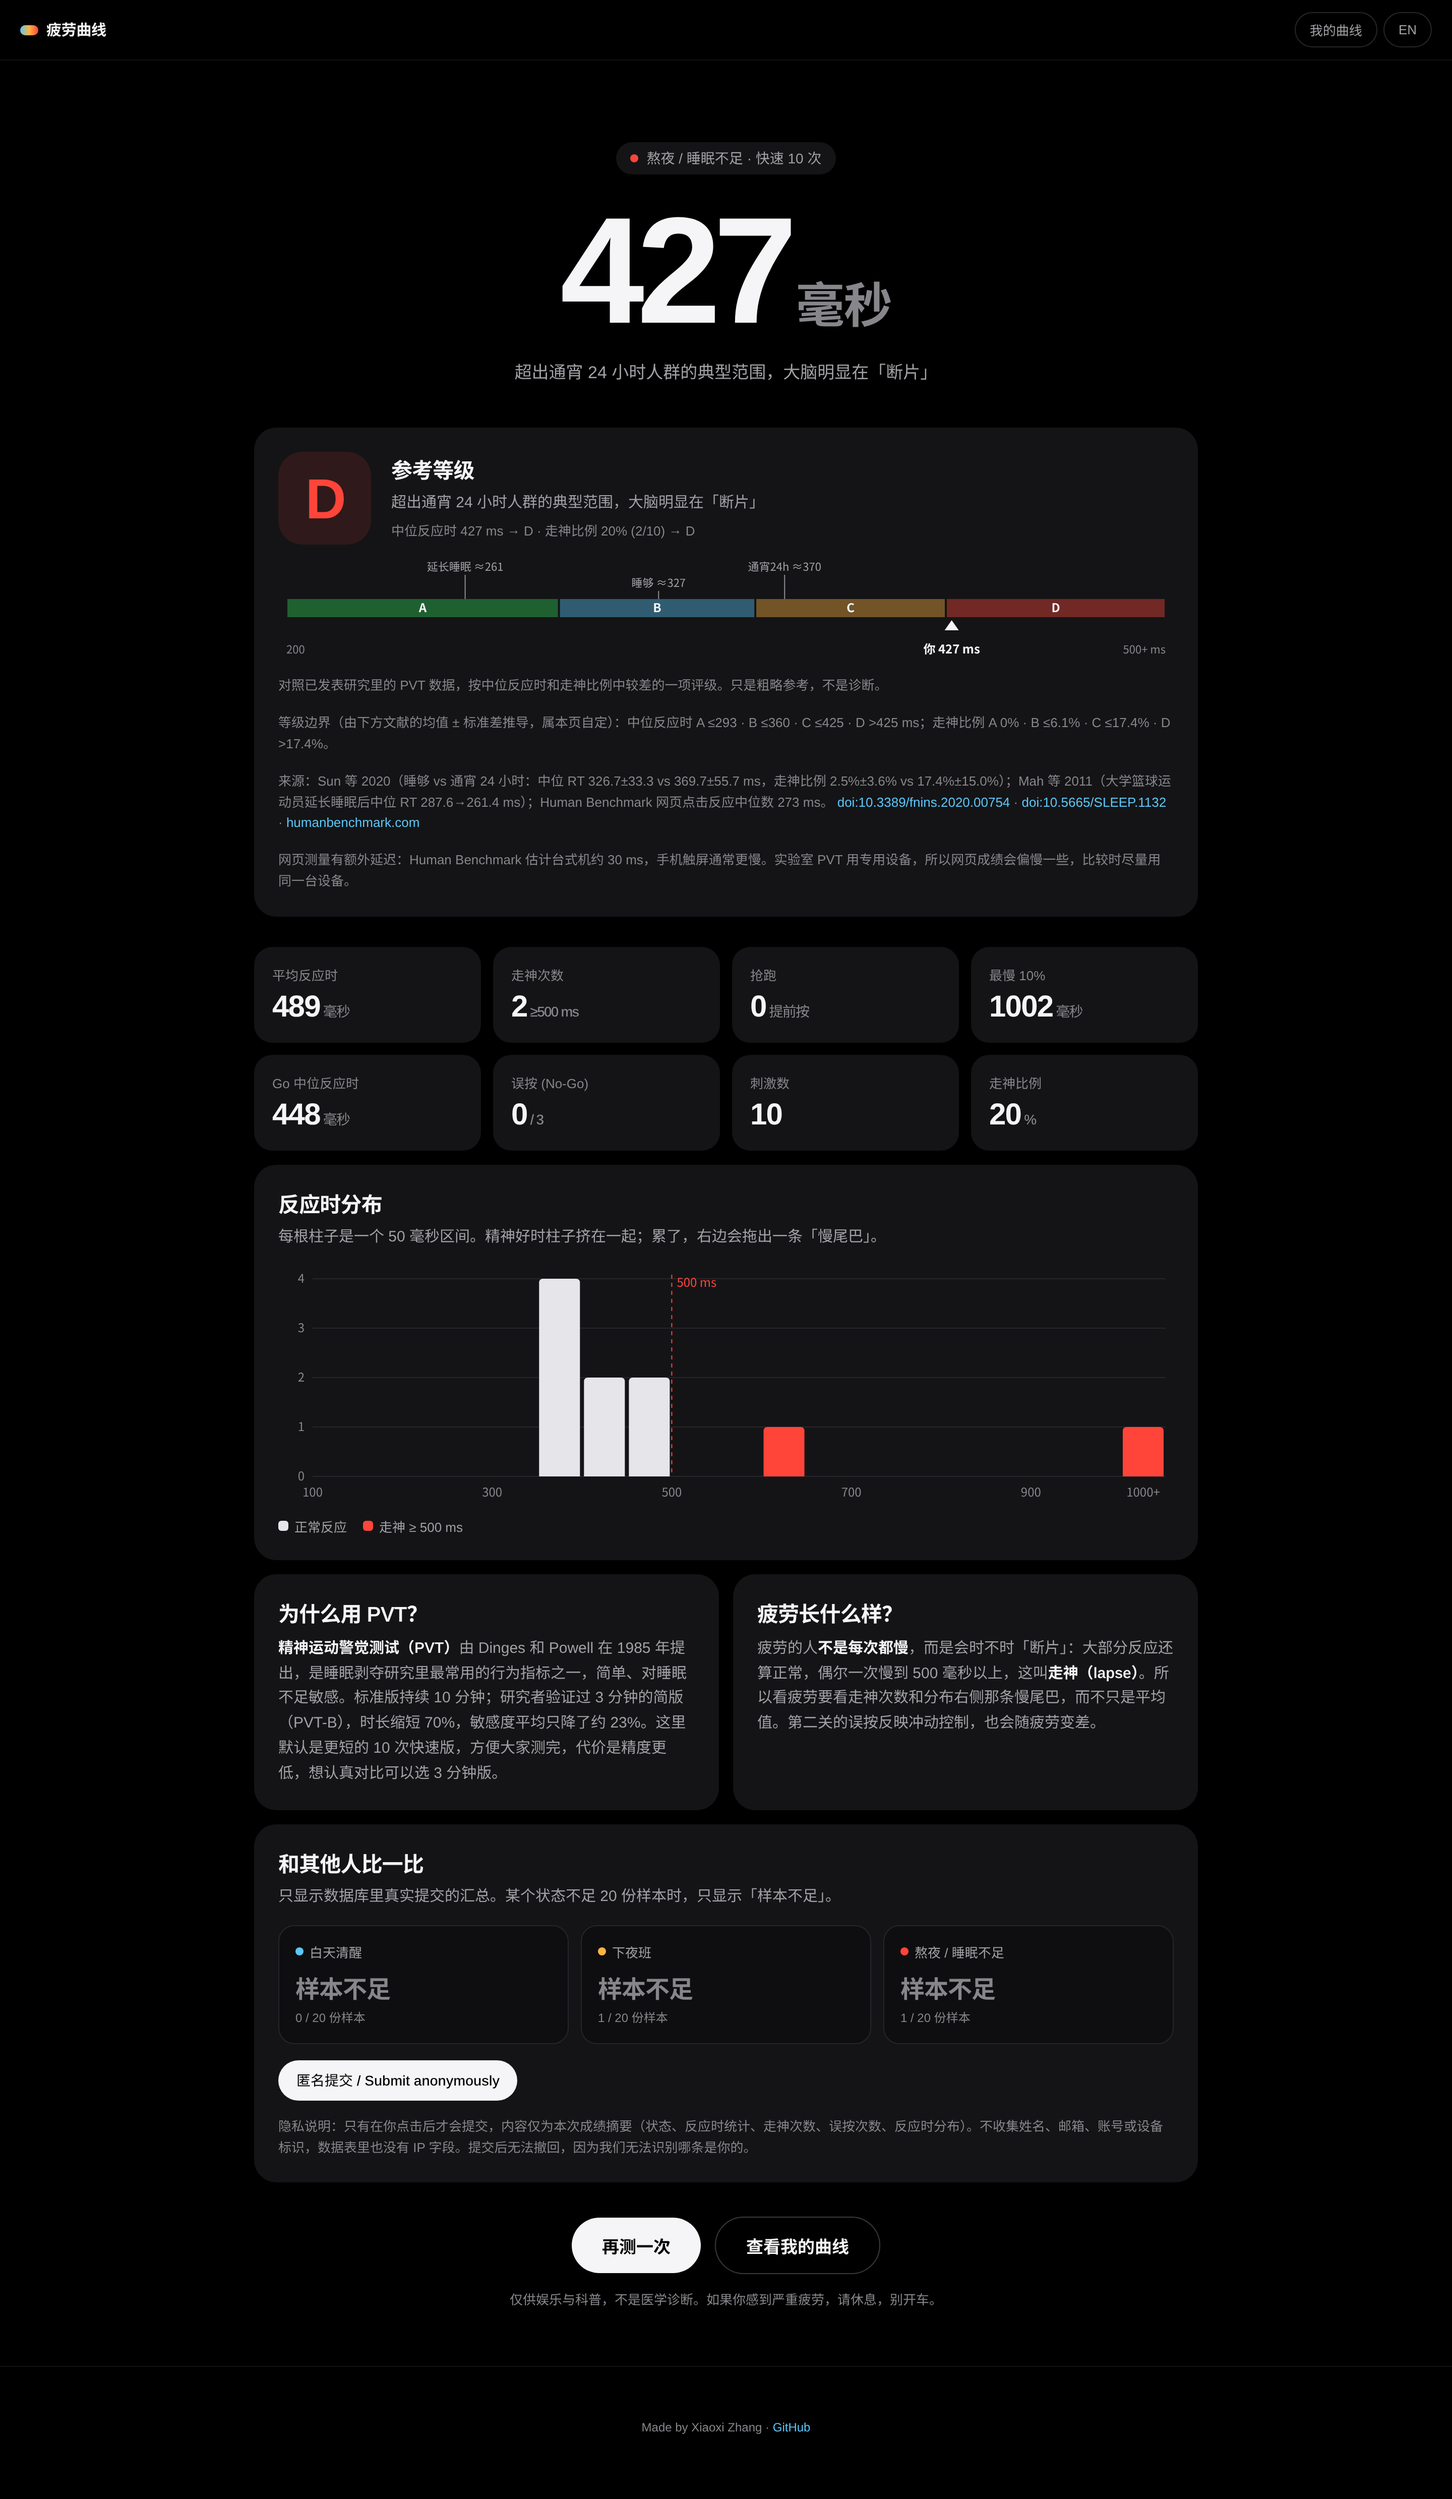
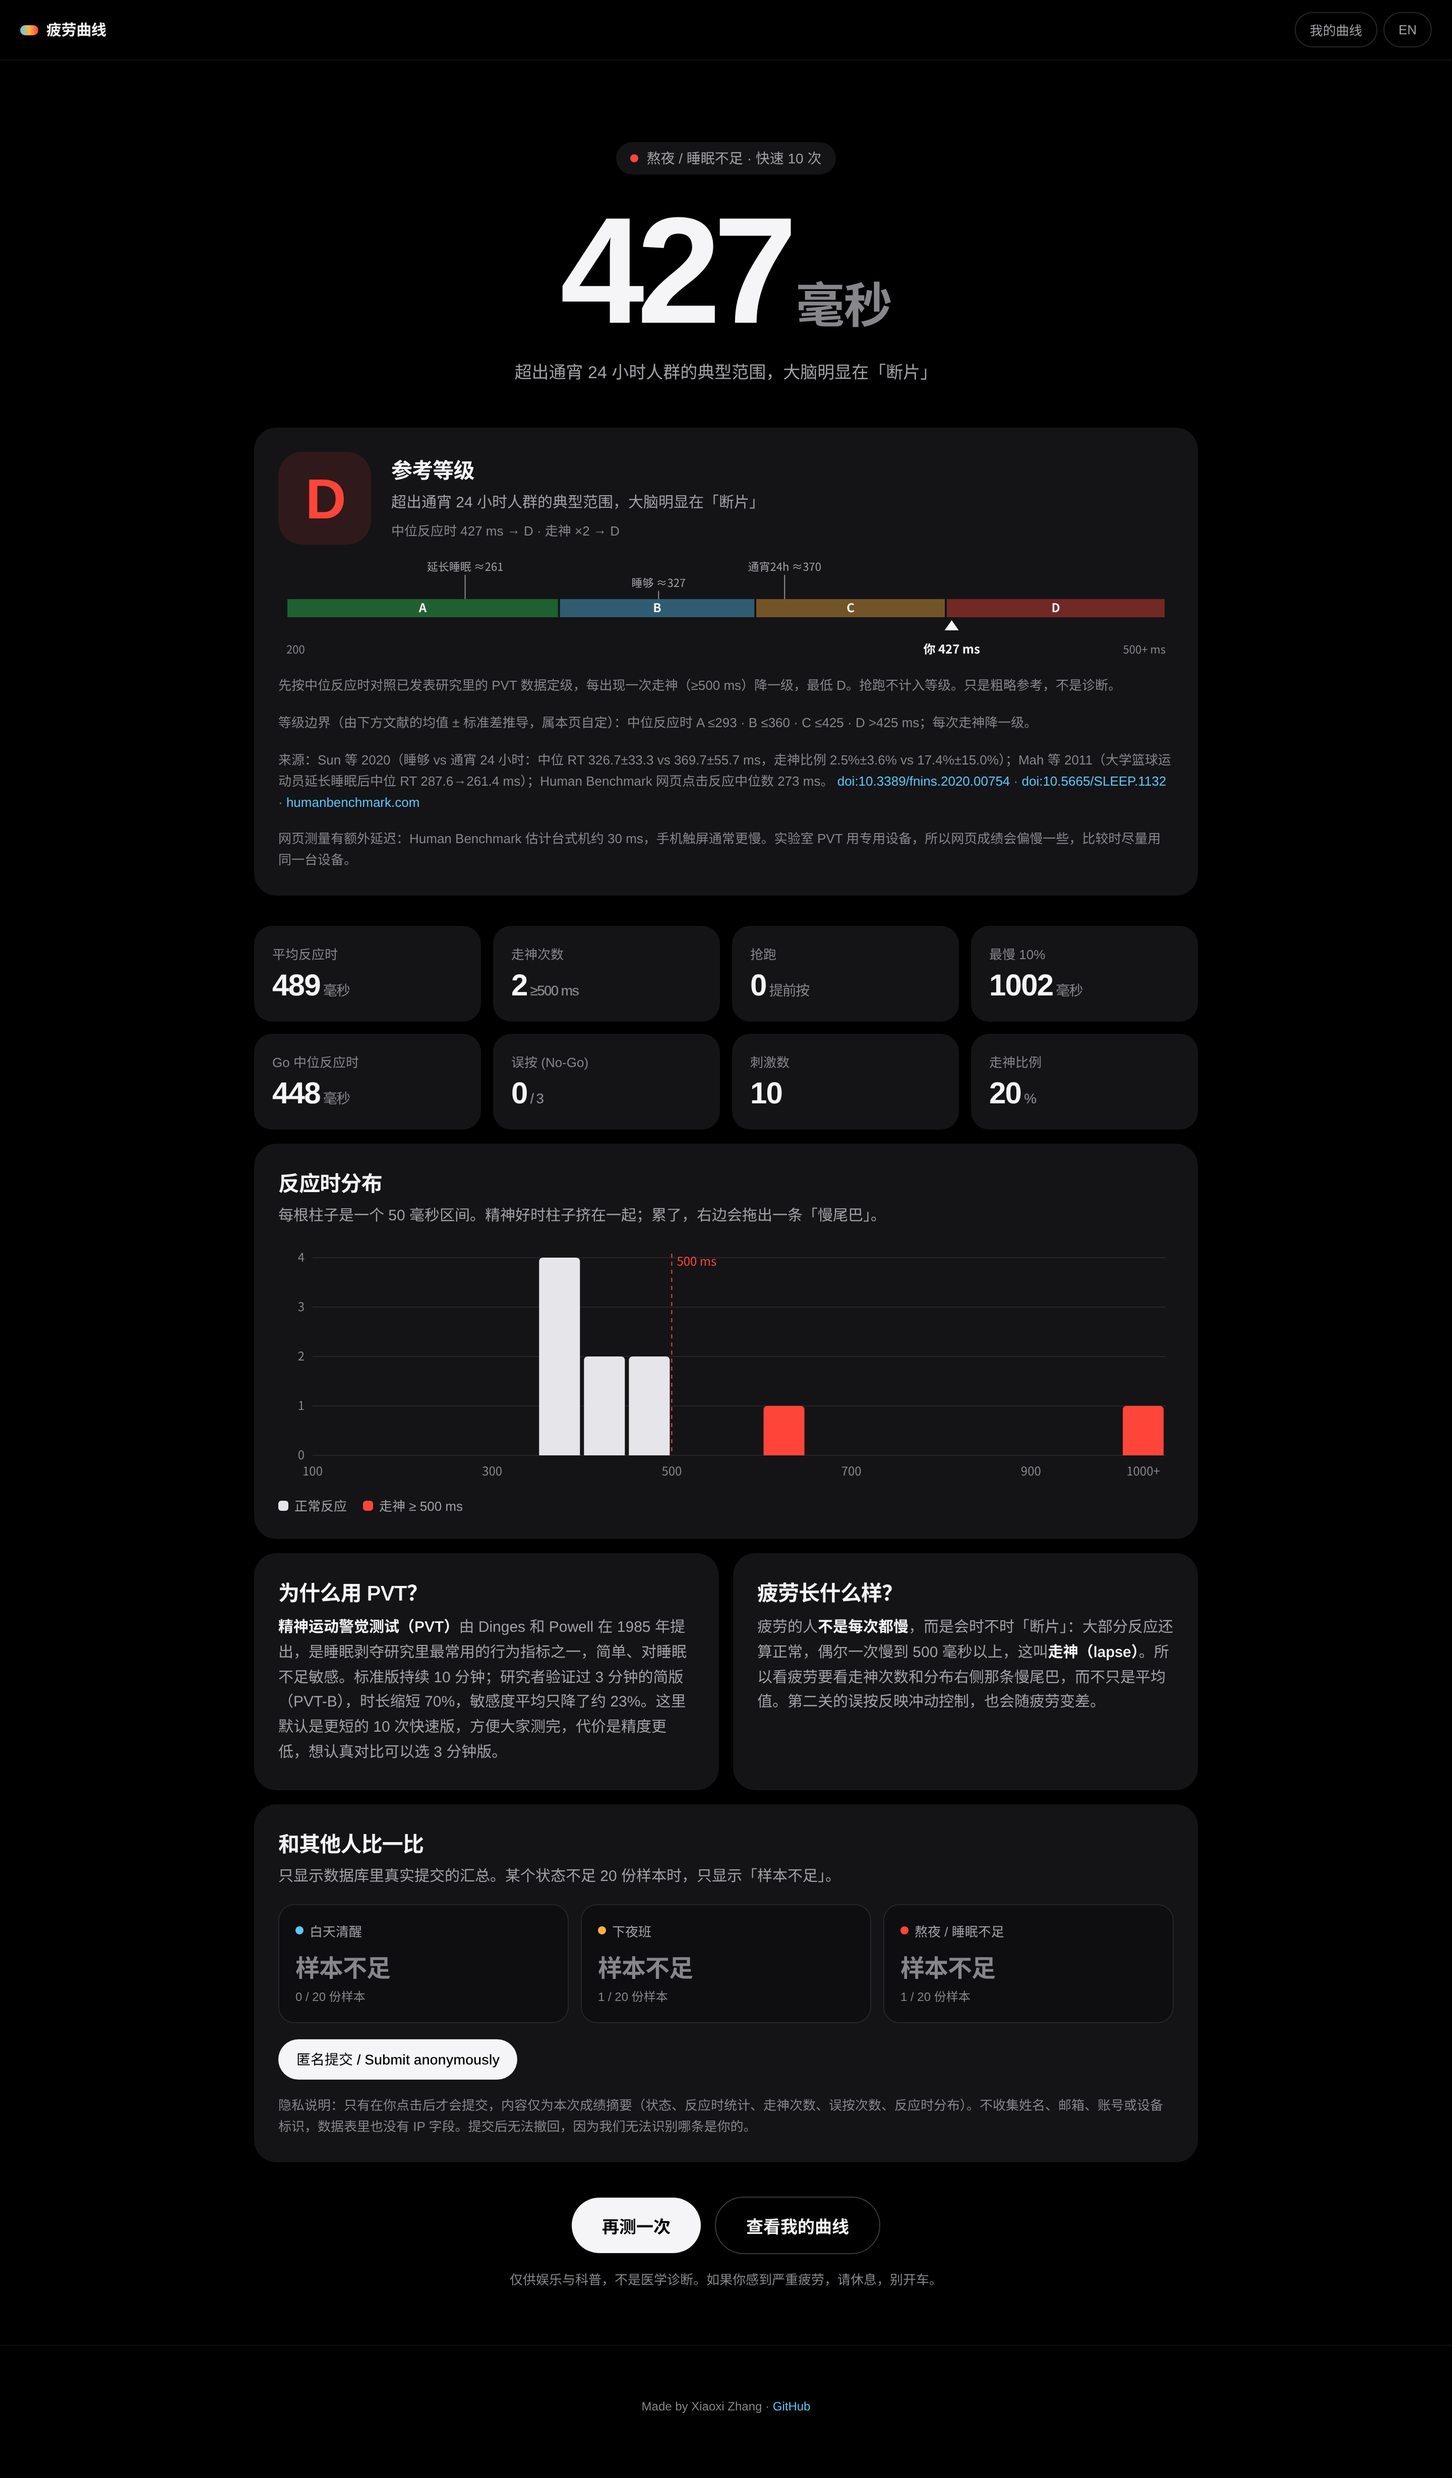
Lenient grading: RT grade minus one letter per lapse; false starts not graded

diff --git a/index.html b/index.html
@@ -346,11 +346,11 @@ line_good:'很稳。走神少，分布集中。',line_mid:'有一点点拖尾，
 hist_t:'反应时分布',hist_d:'每根柱子是一个 50 毫秒区间。精神好时柱子挤在一起；累了，右边会拖出一条「慢尾巴」。',lg_ok:'正常反应',lg_lapse:'走神 ≥ 500 ms',
 sci1_t:'为什么用 PVT？',sci1:'<b>精神运动警觉测试（PVT）</b>由 Dinges 和 Powell 在 1985 年提出，是睡眠剥夺研究里最常用的行为指标之一，简单、对睡眠不足敏感。标准版持续 10 分钟；研究者验证过 3 分钟的简版（PVT-B），时长缩短 70%，敏感度平均只降了约 23%。这里默认是更短的 10 次快速版，方便大家测完，代价是精度更低，想认真对比可以选 3 分钟版。',
 sci2_t:'疲劳长什么样？',sci2:'疲劳的人<b>不是每次都慢</b>，而是会时不时「断片」：大部分反应还算正常，偶尔一次慢到 500 毫秒以上，这叫<b>走神（lapse）</b>。所以看疲劳要看走神次数和分布右侧那条慢尾巴，而不只是平均值。第二关的误按反映冲动控制，也会随疲劳变差。',
-g_t:'参考等级',g_d:'对照已发表研究里的 PVT 数据，按中位反应时和走神比例中较差的一项评级。只是粗略参考，不是诊断。',
+g_t:'参考等级',g_d:'先按中位反应时对照已发表研究里的 PVT 数据定级，每出现一次走神（≥500 ms）降一级，最低 D。抢跑不计入等级。只是粗略参考，不是诊断。',
 gA:'比文献中睡够的成年人还快',gB:'落在睡够的健康成年人典型范围内',gC:'比睡够的人慢，接近通宵 24 小时后的平均水平',gD:'超出通宵 24 小时人群的典型范围，大脑明显在「断片」',
-g_rt:'中位反应时',g_lapse:'走神比例',g_by:'评级依据',g_na:'有效反应太少，暂不评级',
+g_rt:'中位反应时',g_lapse:'走神',g_nolapse:'没有走神，不降级',g_by:'评级依据',g_na:'有效反应太少，暂不评级',
 g_scale_rest:'睡够 ≈327',g_scale_sd:'通宵24h ≈370',g_scale_ext:'延长睡眠 ≈261',g_scale_hb:'网上点击 273',
-g_bands:'等级边界（由下方文献的均值 ± 标准差推导，属本页自定）：中位反应时 A ≤293 · B ≤360 · C ≤425 · D >425 ms；走神比例 A 0% · B ≤6.1% · C ≤17.4% · D >17.4%。',
+g_bands:'等级边界（由下方文献的均值 ± 标准差推导，属本页自定）：中位反应时 A ≤293 · B ≤360 · C ≤425 · D >425 ms；每次走神降一级。',
 g_src:'来源：Sun 等 2020（睡够 vs 通宵 24 小时：中位 RT 326.7±33.3 vs 369.7±55.7 ms，走神比例 2.5%±3.6% vs 17.4%±15.0%）；Mah 等 2011（大学篮球运动员延长睡眠后中位 RT 287.6→261.4 ms）；Human Benchmark 网页点击反应中位数 273 ms。',
 g_dev:'网页测量有额外延迟：Human Benchmark 估计台式机约 30 ms，手机触屏通常更慢。实验室 PVT 用专用设备，所以网页成绩会偏慢一些，比较时尽量用同一台设备。',
 g_touch:'你在用触屏，成绩通常会比电脑上慢一些。',lapse_pct:'走神比例',
@@ -388,11 +388,11 @@ line_good:'Steady. Few lapses, tight distribution.',line_mid:'A little tail. Com
 hist_t:'Reaction-time distribution',hist_d:'Each bar is a 50 ms bin. When alert, bars bunch together; when tired, a long “slow tail” grows to the right.',lg_ok:'Normal response',lg_lapse:'Lapse ≥ 500 ms',
 sci1_t:'Why the PVT?',sci1:'The <b>Psychomotor Vigilance Task</b> was introduced by Dinges and Powell in 1985 and is one of the most widely used behavioural measures in sleep-deprivation research: simple and sensitive to sleep loss. The standard version lasts 10 minutes; a validated 3-minute PVT-B cut duration by 70% while losing on average about 23% of effect size. This page defaults to an even shorter 10-trial quick version so people actually finish it, at the cost of precision. Pick the 3-minute mode for more careful comparisons.',
 sci2_t:'What does fatigue look like?',sci2:'Tired people are <b>not slow every time</b>. Most responses stay fairly normal, but every so often one takes 500 ms or more — a <b>lapse</b>. So fatigue shows up as lapses and a long slow tail on the right of the distribution, not just a higher average. Level 2 errors reflect impulse control, which also worsens with fatigue.',
-g_t:'Reference grade',g_d:'Based on published PVT data, graded by the worse of your median RT and lapse rate. A rough reference, not a diagnosis.',
+g_t:'Reference grade',g_d:'Your median RT is graded against published PVT data, then each lapse (≥500 ms) lowers the grade by one letter, down to D. False starts don’t count. A rough reference, not a diagnosis.',
 gA:'Faster than well-rested adults in the literature',gB:'Within the typical range of well-rested healthy adults',gC:'Slower than rested; near the average after 24 h awake',gD:'Beyond the typical range after 24 h awake — clear lapsing',
-g_rt:'Median RT',g_lapse:'Lapse rate',g_by:'Graded by',g_na:'Too few valid responses to grade',
+g_rt:'Median RT',g_lapse:'lapses',g_nolapse:'no lapses, no downgrade',g_by:'Graded by',g_na:'Too few valid responses to grade',
 g_scale_rest:'rested ≈327',g_scale_sd:'24h awake ≈370',g_scale_ext:'sleep-extended ≈261',g_scale_hb:'web clicks 273',
-g_bands:'Band edges (derived by this page from the mean ± SD in the sources below): median RT A ≤293 · B ≤360 · C ≤425 · D >425 ms; lapse rate A 0% · B ≤6.1% · C ≤17.4% · D >17.4%.',
+g_bands:'Band edges (derived by this page from the mean ± SD in the sources below): median RT A ≤293 · B ≤360 · C ≤425 · D >425 ms; minus one letter per lapse.',
 g_src:'Sources: Sun et al. 2020 (rested vs 24 h sleep deprivation: median RT 326.7±33.3 vs 369.7±55.7 ms; lapse ratio 2.5%±3.6% vs 17.4%±15.0%); Mah et al. 2011 (college basketball players, median RT 287.6→261.4 ms after sleep extension); Human Benchmark web click reaction median 273 ms.',
 g_dev:'Web timing adds latency: Human Benchmark estimates ~30 ms on desktop, and phone taps tend to be slower. Lab PVTs use dedicated hardware, so web scores run a bit slower. Compare on the same device.',
 g_touch:'You’re on a touchscreen — scores usually run a bit slower than on a computer.',lapse_pct:'Lapse rate',
@@ -660,15 +660,16 @@ function renderResult(r){
    Sun et al. 2020, Front Neurosci 14:754 (doi:10.3389/fnins.2020.00754), 7-min PVT:
      rested median RT 326.7 ± 33.3 ms, lapse ratio 2.5% ± 3.6%; after 24 h awake 369.7 ± 55.7 ms, 17.4% ± 15.0%.
    Band edges derived here: A ≤ rested mean−1SD (293), B ≤ rested mean+1SD (360), C ≤ 24h-SD mean+1SD (425), else D.
-   Lapse: A 0, B ≤ rested mean+1SD (6.1%), C ≤ 24h-SD mean (17.4%), else D. Final = worse of the two. */
+   Then each lapse (RT ≥ 500 ms) lowers the grade by one letter, floor D. False starts are shown but not graded. */
 const modeName = m => m === 1 ? t('mode_q') : t('mode_s');
 const GCOL = {A:'#30d158', B:'#5ac8fa', C:'#ffb340', D:'#ff453a'};
 function grade(r){
   if (r.median == null || !r.n || r.n < 5) return null;
   const rt = r.median <= 293 ? 'A' : r.median <= 360 ? 'B' : r.median <= 425 ? 'C' : 'D';
   const lp = r.lapses / r.n * 100;
-  const lg = lp === 0 ? 'A' : lp <= 6.1 ? 'B' : lp <= 17.4 ? 'C' : 'D';
-  return { g: rt > lg ? rt : lg, rt, lg, lp };
+  // each lapse lowers the RT grade by one letter (floor D); false starts do not affect the grade
+  const g = 'ABCD'[Math.min(3, 'ABCD'.indexOf(rt) + r.lapses)];
+  return { g, rt, lp };
 }
 function renderGrade(r, G){
   const L = $('#gLetter');
@@ -676,7 +677,7 @@ function renderGrade(r, G){
   else {
     L.textContent = G.g; L.style.color = GCOL[G.g]; L.style.background = GCOL[G.g] + '1f';
     $('#gDesc').textContent = t('g'+G.g);
-    $('#gBy').textContent = `${t('g_rt')} ${r.median} ms → ${G.rt} · ${t('g_lapse')} ${G.lp.toFixed(0)}% (${r.lapses}/${r.n}) → ${G.lg}`;
+    $('#gBy').textContent = `${t('g_rt')} ${r.median} ms → ${G.rt}` + (r.lapses ? ` · ${t('g_lapse')} ×${r.lapses} → ${G.g}` : ` · ${t('g_nolapse')}`);
   }
   const touch = window.matchMedia && matchMedia('(pointer:coarse)').matches;
   $('#gDev').textContent = t('g_dev') + (touch ? ' ' + t('g_touch') : '');

diff --git a/README.md b/README.md
@@ -41,14 +41,16 @@ The lapse threshold stays at the standard 500 ms so lapse rates are comparable w
 
 ## Reference grade (A–D)
 
-The grade is the **worse** of two sub-grades. The band edges are this page's own choice, derived from the mean ± SD reported by Sun et al. 2020: rested median RT 326.7 ± 33.3 ms and lapse ratio 2.5% ± 3.6%; after 24 h awake, 369.7 ± 55.7 ms and 17.4% ± 15.0% (7-min PVT, lapse > 500 ms).
+1. **Base grade from median RT.** The band edges are this page's own choice, derived from the mean ± SD reported by Sun et al. 2020: rested median RT 326.7 ± 33.3 ms; after 24 h awake, 369.7 ± 55.7 ms (7-min PVT).
+2. **Each lapse (RT ≥ 500 ms) lowers the grade by one letter**, down to D. Example: an RT grade of B with one lapse gives C, and A with one lapse gives B. For context, the same study reports a lapse ratio of 2.5% ± 3.6% when rested versus 17.4% ± 15.0% after 24 h awake, so even one lapse in a short test is notable.
+3. **False starts are shown but don't affect the grade.** On a web page they often come from accidental taps or key bounce rather than fatigue.
 
-| Grade | Median RT | Lapse rate | Meaning |
-|---|---|---|---|
-| A | ≤ 293 ms (rested mean − 1 SD) | 0% | Faster than well-rested adults in the source |
-| B | ≤ 360 ms (rested mean + 1 SD) | ≤ 6.1% (rested mean + 1 SD) | Typical well-rested range |
-| C | ≤ 425 ms (24 h awake mean + 1 SD) | ≤ 17.4% (24 h awake mean) | Slower than rested, near the 24 h-awake average |
-| D | > 425 ms | > 17.4% | Beyond the typical 24 h-awake range |
+| Grade | Median RT | Meaning |
+|---|---|---|
+| A | ≤ 293 ms (rested mean − 1 SD) | Faster than well-rested adults in the source |
+| B | ≤ 360 ms (rested mean + 1 SD) | Typical well-rested range |
+| C | ≤ 425 ms (24 h-awake mean + 1 SD) | Slower than rested, near the 24 h-awake average |
+| D | > 425 ms | Beyond the typical 24 h-awake range |
 
 Other context shown on the page:
 - Mah et al. 2011: college basketball players' PVT median RT went from 287.6 ± 65.9 ms at baseline to 261.4 ± 35.8 ms after weeks of sleep extension (weekly PVT, Table 3).
